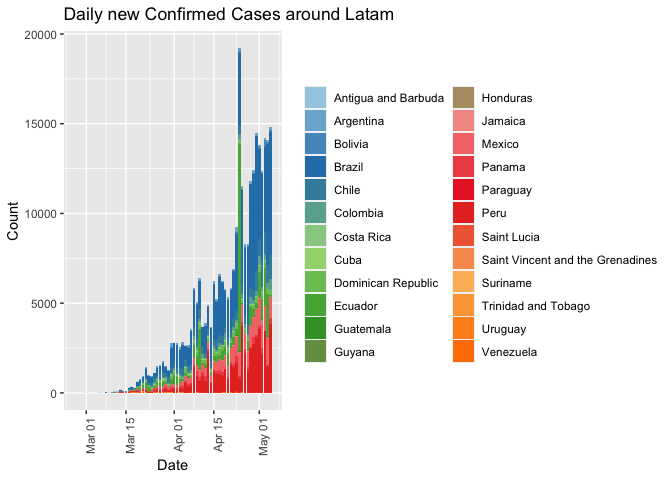
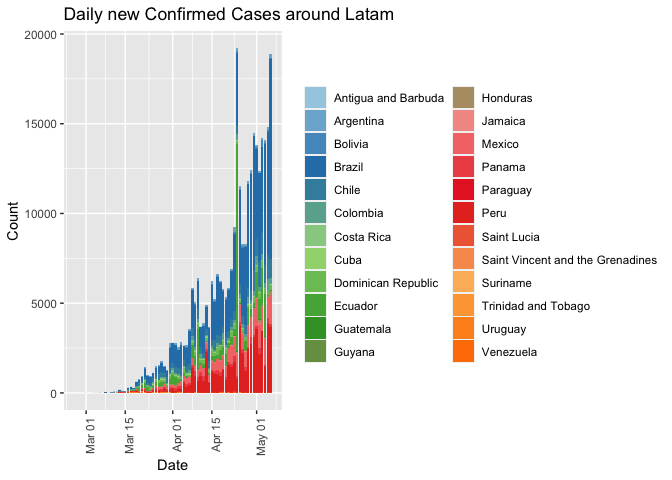
Updated to 20200506

diff --git a/README.md b/README.md
@@ -85,14 +85,14 @@ library(dplyr)
 ``` r
 data.processor <- COVID19DataProcessor$new(force.download = FALSE)
 dummy <- data.processor$curate()
-#> INFO  [22:33:45.546]  {stage: data loaded}
+#> INFO  [10:36:37.545]  {stage: data loaded}
 #> Warning in countrycode(x, origin = "country.name", destination = "continent"): Some values were not matched unambiguously: MS Zaandam
-#> INFO  [22:33:47.724]  {stage: consolidated}
-#> INFO  [22:33:48.569]  {stage: Starting first imputation}
-#> INFO  [22:33:48.570] Imputation indicator {indicator: confirmed}
-#> INFO  [22:33:48.601] Imputation indicator {indicator: recovered}
-#> INFO  [22:33:48.688] Imputation indicator {indicator: deaths}
-#> INFO  [22:33:49.895]  {stage: Calculating top countries}
+#> INFO  [10:36:40.450]  {stage: consolidated}
+#> INFO  [10:36:41.549]  {stage: Starting first imputation}
+#> INFO  [10:36:41.551] Imputation indicator {indicator: confirmed}
+#> INFO  [10:36:41.616] Imputation indicator {indicator: recovered}
+#> INFO  [10:36:41.731] Imputation indicator {indicator: deaths}
+#> INFO  [10:36:43.312]  {stage: Calculating top countries}
 current.date <- max(data.processor$data$date)
 
 rg <- ReportGeneratorEnhanced$new(data.processor)
@@ -112,27 +112,27 @@ latam.countries <- sort(c("Mexico",
   arrange(desc(confirmed.inc)) %>%
   filter(confirmed >=10))[1:10,]
 #>           country       date rate.inc.daily confirmed.inc confirmed deaths
-#> 1              US 2020-05-05           0.02         23976   1204351  71064
-#> 2          Russia 2020-05-05           0.07         10102    155370   1451
-#> 3          Brazil 2020-05-05           0.06          6835    115455   7938
-#> 4  United Kingdom 2020-05-05           0.02          4411    196243  29501
-#> 5            Peru 2020-05-05           0.08          3817     51189   1444
-#> 6           India 2020-05-05           0.06          2963     49400   1693
-#> 7          Turkey 2020-05-05           0.01          1832    129491   3520
-#> 8    Saudi Arabia 2020-05-05           0.06          1595     30251    200
-#> 9           Chile 2020-05-05           0.07          1373     22016    275
-#> 10           Iran 2020-05-05           0.01          1323     99970   6340
+#> 1              US 2020-05-06           0.02         24252   1228603  73431
+#> 2          Brazil 2020-05-06           0.10         11156    126611   8588
+#> 3          Russia 2020-05-06           0.07         10559    165929   1537
+#> 4  United Kingdom 2020-05-06           0.03          6116    202359  30150
+#> 5            Peru 2020-05-06           0.07          3628     54817   1533
+#> 6           India 2020-05-06           0.07          3587     52987   1785
+#> 7          France 2020-05-06           0.02          3537    174224  25812
+#> 8          Turkey 2020-05-06           0.02          2253    131744   3584
+#> 9        Pakistan 2020-05-06           0.09          2024     24073    564
+#> 10   Saudi Arabia 2020-05-06           0.06          1687     31938    209
 #>    deaths.inc imputation.confirmed
-#> 1        2142                     
-#> 2          95                     
-#> 3         571                     
-#> 4         692                     
-#> 5         100                     
-#> 6         127                     
-#> 7          59                     
-#> 8           9                     
-#> 9           5                     
-#> 10         63
+#> 1        2367                     
+#> 2         650                     
+#> 3          86                     
+#> 4         649                     
+#> 5          89                     
+#> 6          92                     
+#> 7         275                     
+#> 8          64                     
+#> 9          50                     
+#> 10          9
 ```
 
 ``` r
